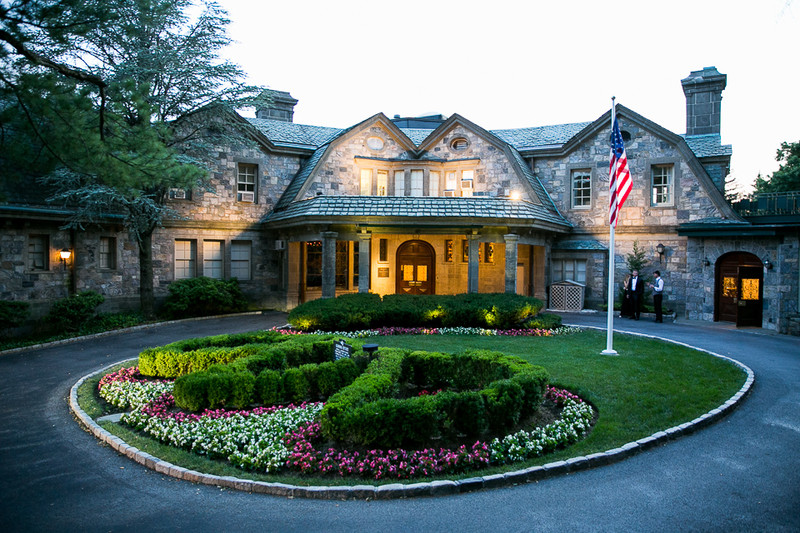
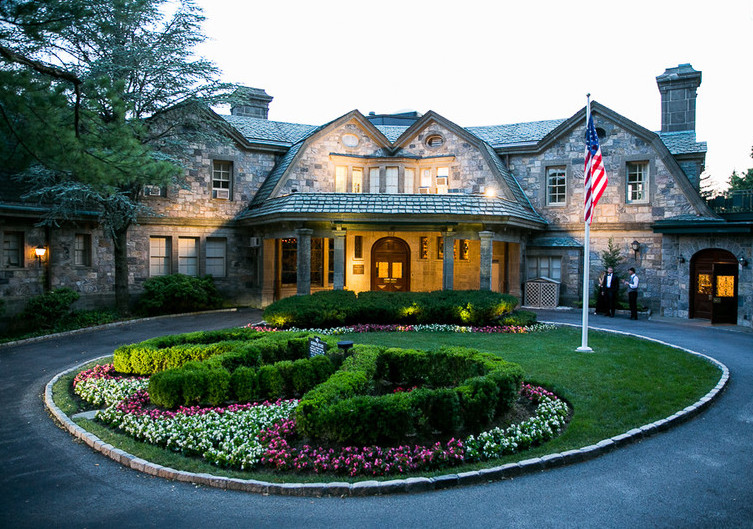
convert pngs to jpgs, compress images, use background image divs for main photos

diff --git a/src/pages/Accommodations.js b/src/pages/Accommodations.js
@@ -1,6 +1,6 @@
 import React, { Component } from 'react';
-import Courtyard from '../images/CourtyardMarriott.jpg';
-import wishlist from '../images/wishList.png';
+import courtyard from '../images/CourtyardMarriott.jpg';
+import wishlist from '../images/wishList.jpg';
 
 class Accommodations extends Component {
   render() {
@@ -17,7 +17,7 @@ class Accommodations extends Component {
           There are a surprising number of hotels where you can rest your head.
           There's the Marriott, Doubletree Hilton, etc. We'll keep this area updated once we've set up a hotel block.
         </p>
-        <img alt="Courtyard Marriott" src={Courtyard} width="100%" height="auto"/>
+        <div className="image-container" style={{backgroundImage: `url(${courtyard})`}} />
         <h2>Airbnbs</h2>
         <p>
           If hotels are not your thing, there are also plenty of unique Airbnbs in the area.
@@ -27,10 +27,9 @@ class Accommodations extends Component {
             target="_blank"
           >
             wishlist
-          </a> of places to stay near the wedding. 
-
-          <img alt="airbnb wishlist" src={wishlist} width="100%" height="auto" />
+          </a> of places to stay near the wedding.
         </p>
+        <div className="image-container" style={{backgroundImage: `url(${wishlist})`}} />
       </div>
     );
   }

diff --git a/src/pages/Home.js b/src/pages/Home.js
@@ -5,7 +5,7 @@ import mexico from '../images/gallery/mexico.jpg';
 import trilium from '../images/gallery/trilium.jpg';
 import solarEclipse from '../images/gallery/solarEclipse.jpg';
 import kayak from '../images/gallery/kayak.jpg';
-import saveTheDate from '../images/saveTheDate.png';
+import saveTheDate from '../images/saveTheDate.jpg';
 import ring from '../images/gallery/ring.jpg';
 import skiing from '../images/gallery/skiing.jpg';
 import portlandDinner from '../images/gallery/portlandDinner.jpg';
@@ -24,9 +24,7 @@ class Home extends Component {
     ]
     return (
       <div className="container">
-        <div>
-          <img height="auto" width="100%" alt="Kim and Phil in SF" src={saveTheDate}/>
-        </div>
+        <div className="image-container" style={{backgroundImage: `url(${saveTheDate})`}} />
         <section>
           <h2>Our Story</h2>
           <p>

diff --git a/src/pages/Registry.js b/src/pages/Registry.js
@@ -1,14 +1,14 @@
 import React, { Component } from 'react';
 import sandy from '../images/gallery/sandy.jpg'
+
 class Registry extends Component {
   render() {
+    console.log(sandy)
     return (
       <div className="container">
-        <div style={{height: '88vh'}}>
-        <h1>We're working on it!</h1>
+        <h1>We are working on it!</h1>
         {'<3,'}
-        <img alt="kim and phil" src={sandy} width="100%" height="auto" />
-        </div>
+        <div className="image-container" style={{backgroundImage: `url(${sandy})`}} />
       </div>
     );
   }

diff --git a/src/pages/RSVP.js b/src/pages/RSVP.js
@@ -61,7 +61,7 @@ class RSVP extends Component {
     const { name, email, comments, attendance, hasRSVPd } = this.state;
     return (
       <div className="container">
-        <img src={rock} alt="Kim and Phil on a rock in Mexico City" width="100%" height="auto" />
+        <div className="image-container" style={{backgroundImage: `url(${rock})`}} />
         <p>
           We'll be sending out formal invitations as well. If you already know whether you can make it, it'd rock if you could RSVP here so we can get a rough headcount.
         </p>

diff --git a/src/index.css b/src/index.css
@@ -3,6 +3,7 @@ footer {
   height: 4rem;
   background: #484848;
   text-align: center;
+  margin-top: 10px;
 }
 
 footer a {
@@ -44,6 +45,15 @@ nav a:hover, nav a.active {
   color: #14b114;
 }
 
+.image-container {
+  background-color: #aaa;
+  background-size: cover;
+  background-repeat: no-repeat;
+  background-position: center;
+  width: 100%;
+  height: 0;
+  padding-top: 68.05%;
+}
 /* make the container wider for mobile devices */
 @media (max-width: 400px){
   .container {

diff --git a/src/pages/Wedding.js b/src/pages/Wedding.js
@@ -7,7 +7,7 @@ class Wedding extends Component {
     return (
       <div className="container">
         <h1 className="photo-caption center">The Wedding</h1>
-        <img alt="Tappan Hill Mansion" src={tappanHill} width="100%" height="auto"/>
+        <div className="image-container" style={{backgroundImage: `url(${tappanHill})`}} />
         <section>
           <h2>Tappan Hill Mansion</h2>
           <p>200 Gundpowder Lane. Tarrytown, NY</p>
